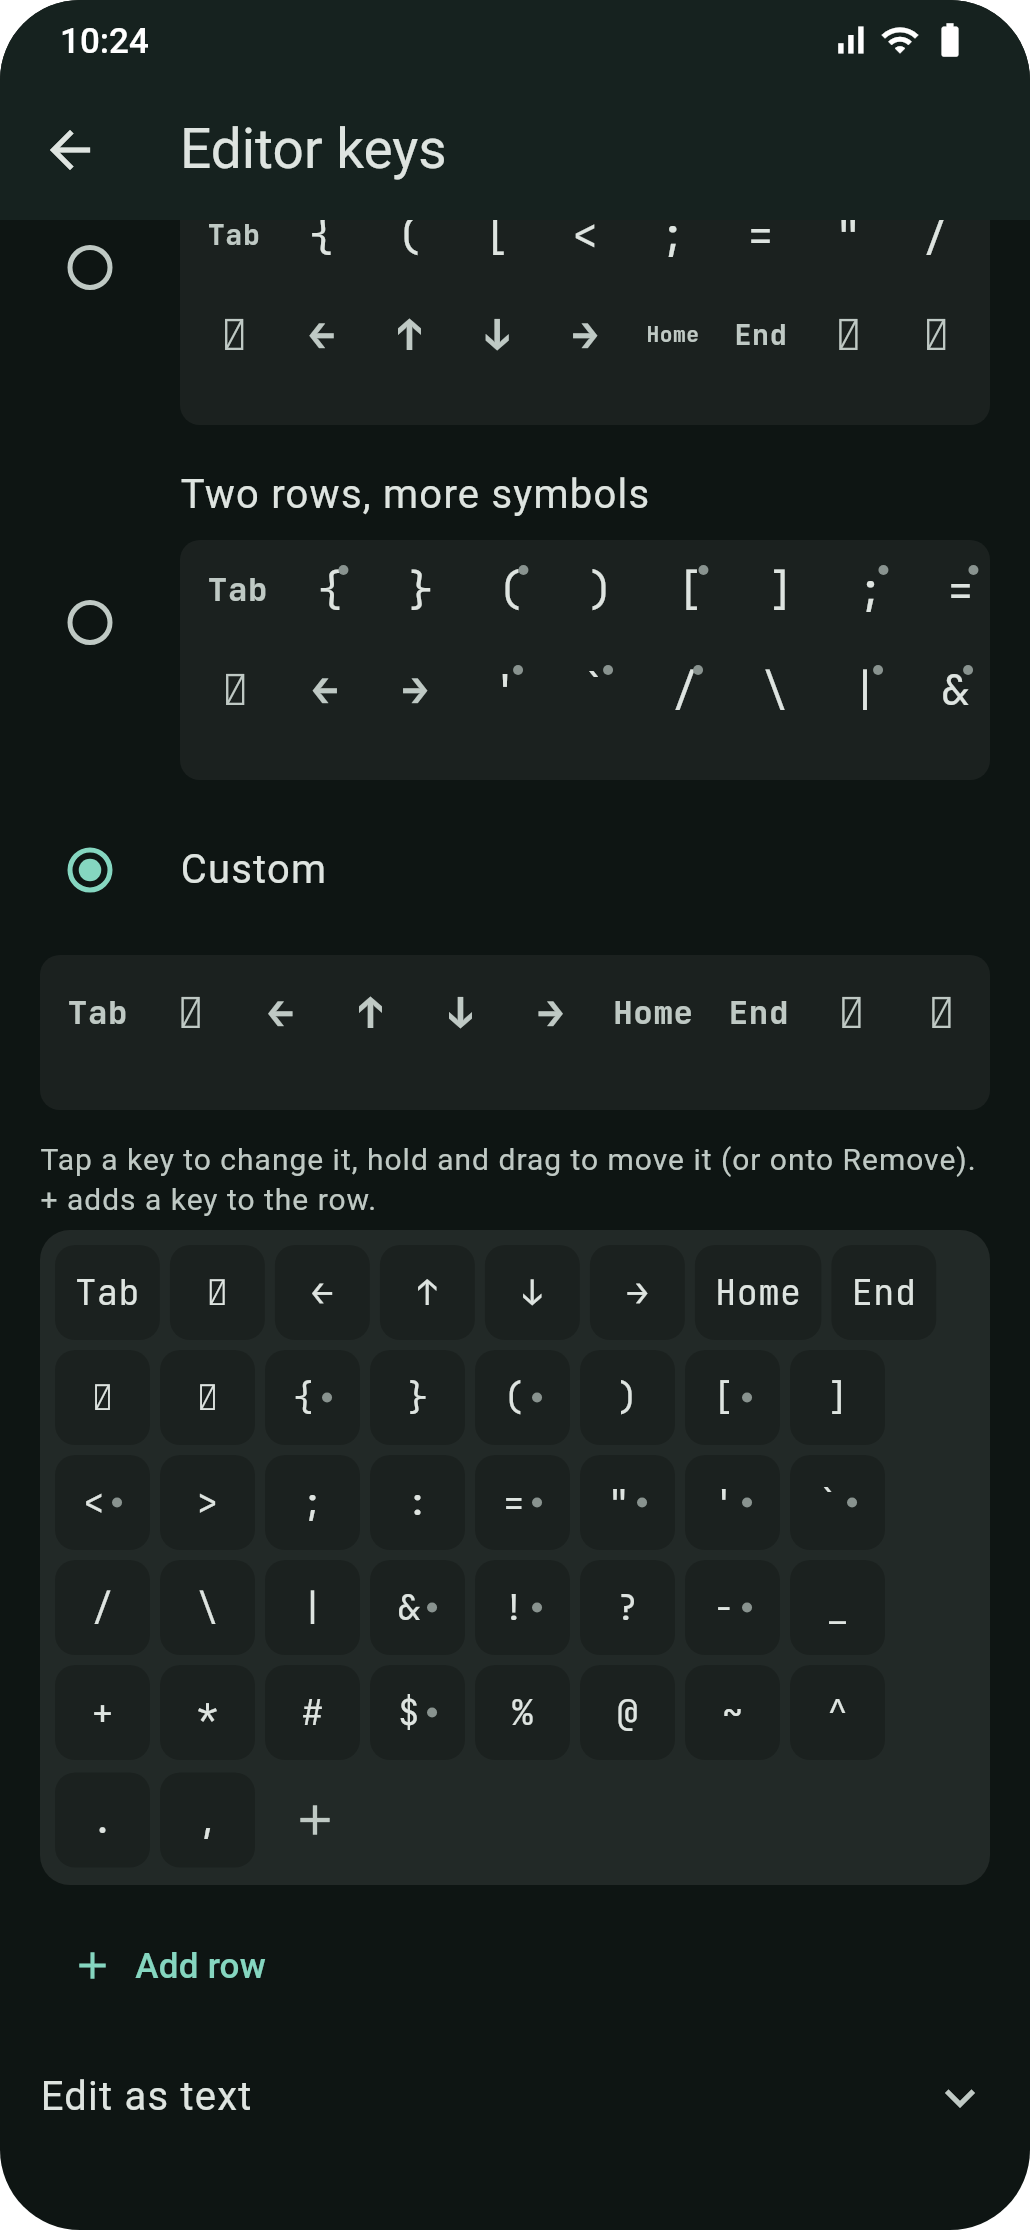
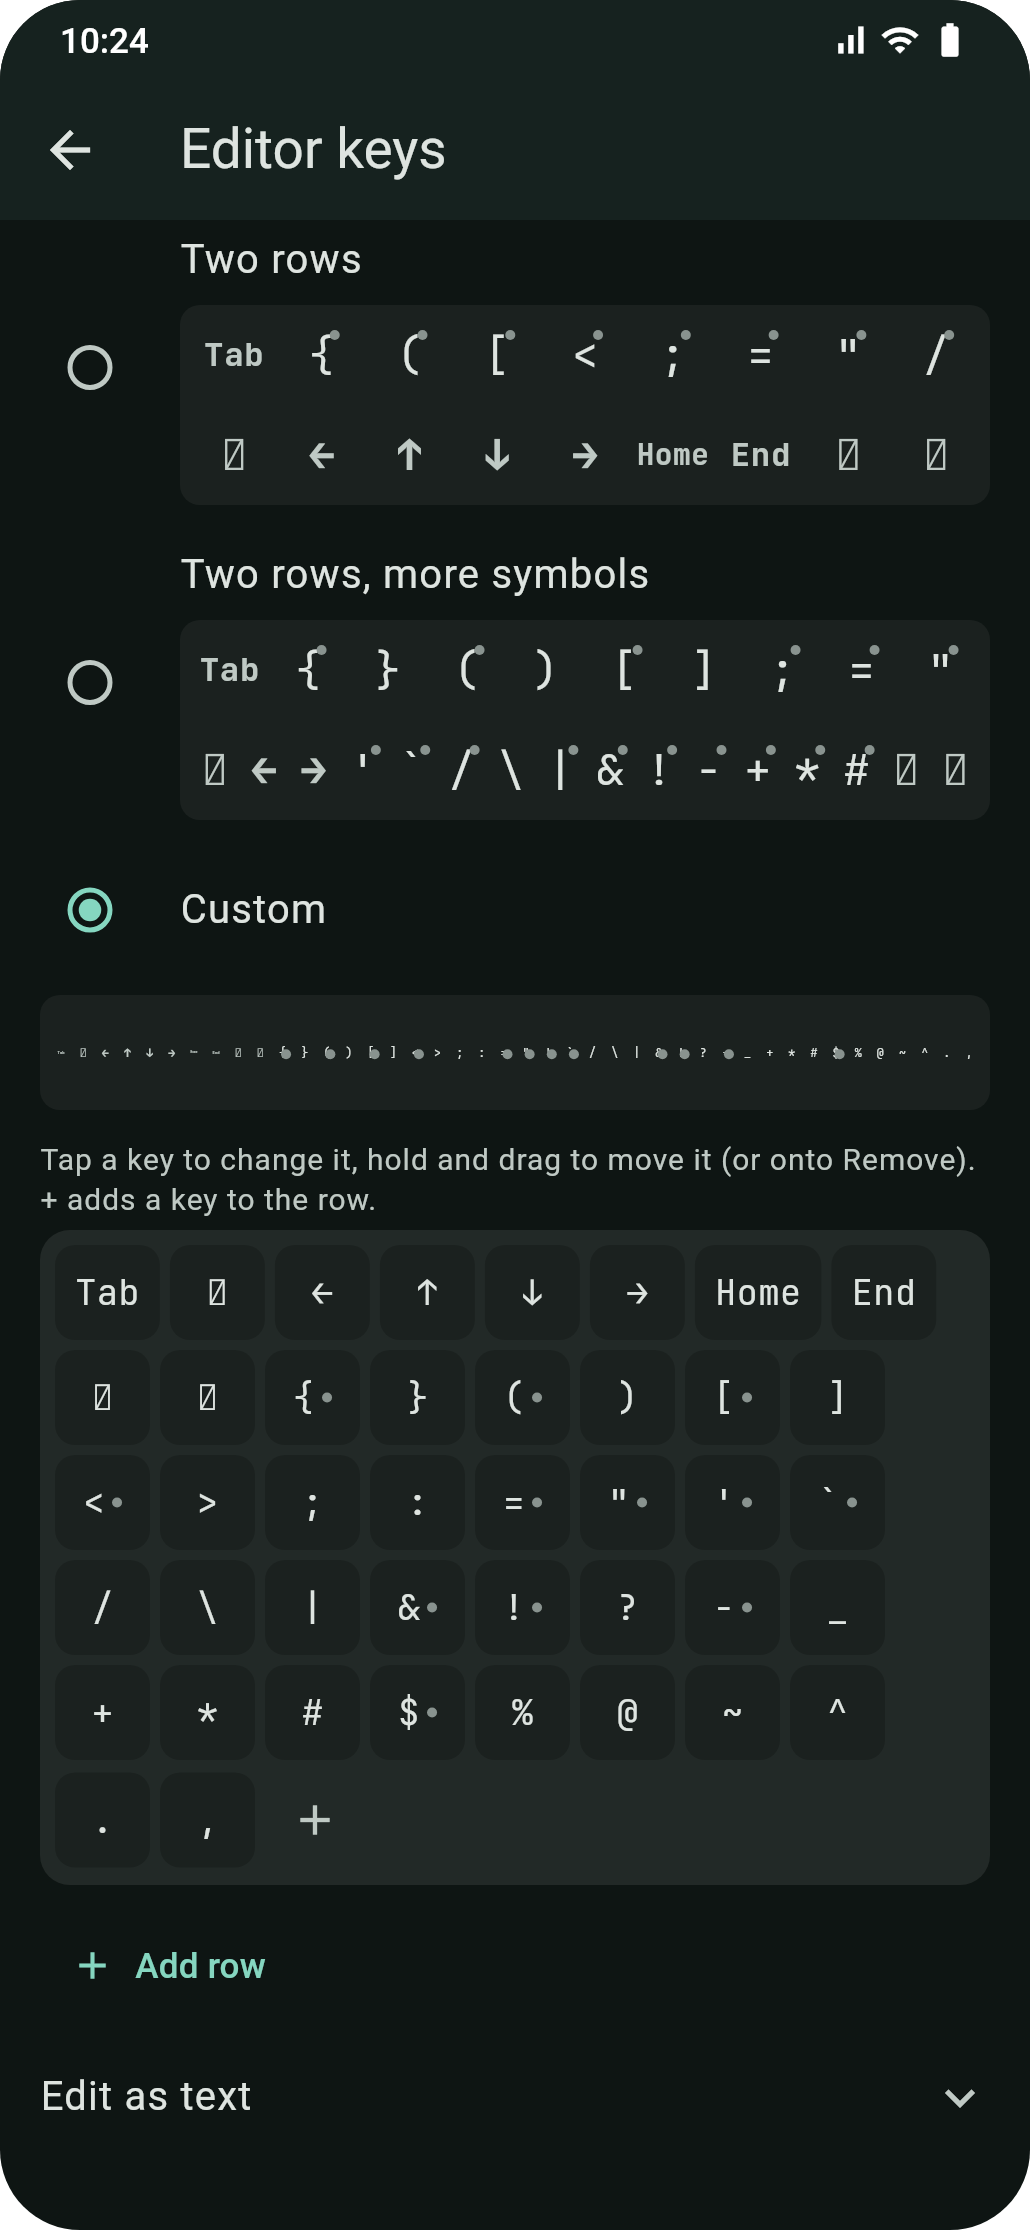
Extra keys previews fit the width instead of being cut off
Claude-Session: https://claude.ai/code/session_01XunUjUu1QGG4r72CPXVRT3

diff --git a/lib/core/widgets/key_bar.dart b/lib/core/widgets/key_bar.dart
@@ -15,7 +15,11 @@ enum KeyLatch { off, once, locked }
 /// keys repeat (arrows, ⌫, symbols). Ctrl / Alt: tap for the next key, hold to lock. The bar never takes
 /// focus, so the keyboard stays up.
 class KeyBar extends StatelessWidget {
-  const KeyBar({super.key, required this.rows, required this.onKey, this.latch, this.onLock});
+  const KeyBar({super.key, required this.rows, required this.onKey, this.latch, this.onLock, this.fit = false});
+
+  /// A preview: every row fits the width (keys get as narrow as needed, nothing scrolls) and no room is
+  /// kept for the system bars.
+  final bool fit;
 
   final List<List<BarKey>> rows;
 
@@ -38,6 +42,9 @@ class KeyBar extends StatelessWidget {
       color: scheme.surfaceContainer,
       child: SafeArea(
         top: false,
+        bottom: !fit,
+        left: !fit,
+        right: !fit,
         child: LayoutBuilder(
           builder: (context, box) => Column(
             mainAxisSize: MainAxisSize.min,
@@ -45,7 +52,7 @@ class KeyBar extends StatelessWidget {
               for (final row in rows)
                 SizedBox(
                   height: rowHeight,
-                  child: row.length * _minKeyWidth <= box.maxWidth - 8
+                  child: fit || row.length * _minKeyWidth <= box.maxWidth - 8
                       ? Padding(
                           padding: const EdgeInsets.symmetric(horizontal: 4),
                           child: Row(children: [for (final k in row) Expanded(child: _key(k))]),
@@ -63,12 +70,25 @@ class KeyBar extends StatelessWidget {
     );
   }
 
-  Widget _key(BarKey k) =>
-      _KeyButton(barKey: k, latch: latch?.call(k.main) ?? KeyLatch.off, onKey: onKey, onLock: onLock);
+  Widget _key(BarKey k) => _KeyButton(
+    barKey: k,
+    latch: latch?.call(k.main) ?? KeyLatch.off,
+    onKey: onKey,
+    onLock: onLock,
+    minWidth: fit ? 0 : _minKeyWidth,
+  );
 }
 
 class _KeyButton extends StatefulWidget {
-  const _KeyButton({required this.barKey, required this.latch, required this.onKey, this.onLock});
+  const _KeyButton({
+    required this.barKey,
+    required this.latch,
+    required this.onKey,
+    this.onLock,
+    this.minWidth = KeyBar._minKeyWidth,
+  });
+
+  final double minWidth;
 
   final BarKey barKey;
   final KeyLatch latch;
@@ -261,9 +281,9 @@ class _KeyButtonState extends State<_KeyButton> {
         button: true,
         label: label,
         child: Container(
-          constraints: const BoxConstraints(minWidth: KeyBar._minKeyWidth),
+          constraints: BoxConstraints(minWidth: widget.minWidth),
           margin: const EdgeInsets.symmetric(horizontal: 1, vertical: 3),
-          padding: const EdgeInsets.symmetric(horizontal: 6),
+          padding: EdgeInsets.symmetric(horizontal: widget.minWidth == 0 ? 2 : 6),
           alignment: Alignment.center,
           decoration: BoxDecoration(color: background, borderRadius: BorderRadius.circular(8)),
           child: Stack(

diff --git a/test/screenshots_test.dart b/test/screenshots_test.dart
@@ -174,6 +174,7 @@ void main() {
       await tester.tap(find.text('Like the app').first);
     }),
     'log': const _Shot(ThemeMode.light, Routes.log),
+    'keys': _Shot(ThemeMode.dark, Routes.keyBar(KeyBarFor.terminal)),
     'keys_custom': _Shot(ThemeMode.dark, Routes.keyBar(KeyBarFor.editor), act: (tester, c) async {
       await tester.tap(find.text('Custom'));
       await settle(tester);

diff --git a/lib/features/settings/presentation/key_bar_settings.dart b/lib/features/settings/presentation/key_bar_settings.dart
@@ -92,7 +92,7 @@ class _KeyBarSettingsScreenState extends ConsumerState<KeyBarSettingsScreen> {
         padding: const EdgeInsets.only(top: 6),
         child: ClipRRect(
           borderRadius: BorderRadius.circular(8),
-          child: KeyBar(rows: _visible(rows), onKey: (_) {}),
+          child: KeyBar(rows: _visible(rows), onKey: (_) {}, fit: true),
         ),
       ),
     );

diff --git a/CHANGELOG.md b/CHANGELOG.md
@@ -9,6 +9,7 @@ shown in the app under Settings → App version. Write for people using the app,
 - **Editor ⋮ → View**: Wrap lines, Status bar (it can be turned off) and Extra keys, together.
 - The editor status bar keeps clear of rounded screen corners; its encoding and line-endings menus open above it (they came up empty).
 - Menus keep long choices (like "Two rows, more symbols") on one short line.
+- The extra keys previews in Settings show every key (rows no longer get cut off on the right).
 - **Custom extra keys by drag and drop**: hold a key and drag it within or between rows, onto New row, or onto Remove; tap a key to change what it types and what a long press offers; + adds a key. Edit as text is still there.
 
 ## 0.10.1
